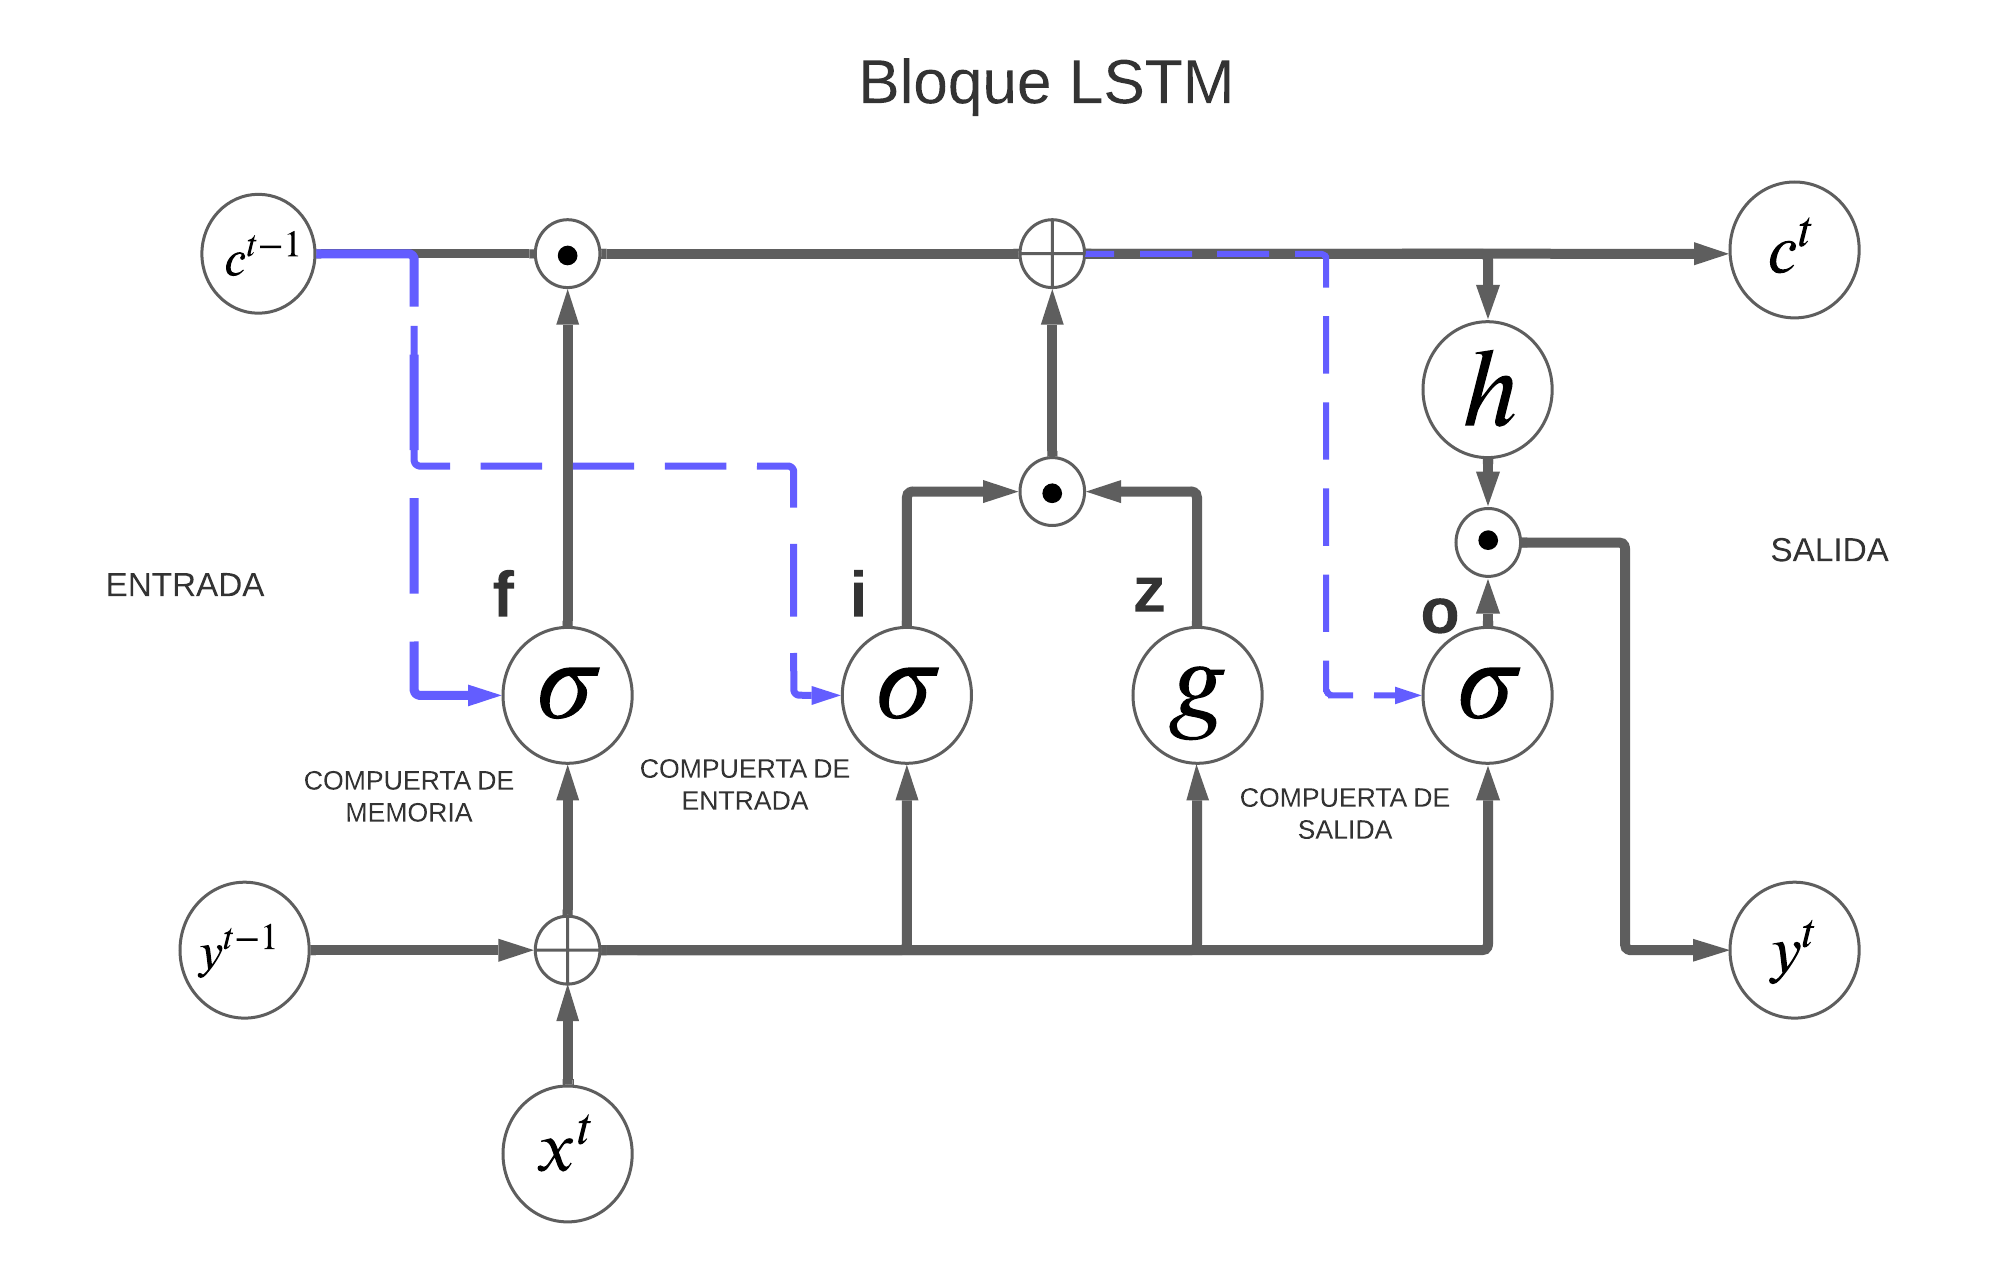
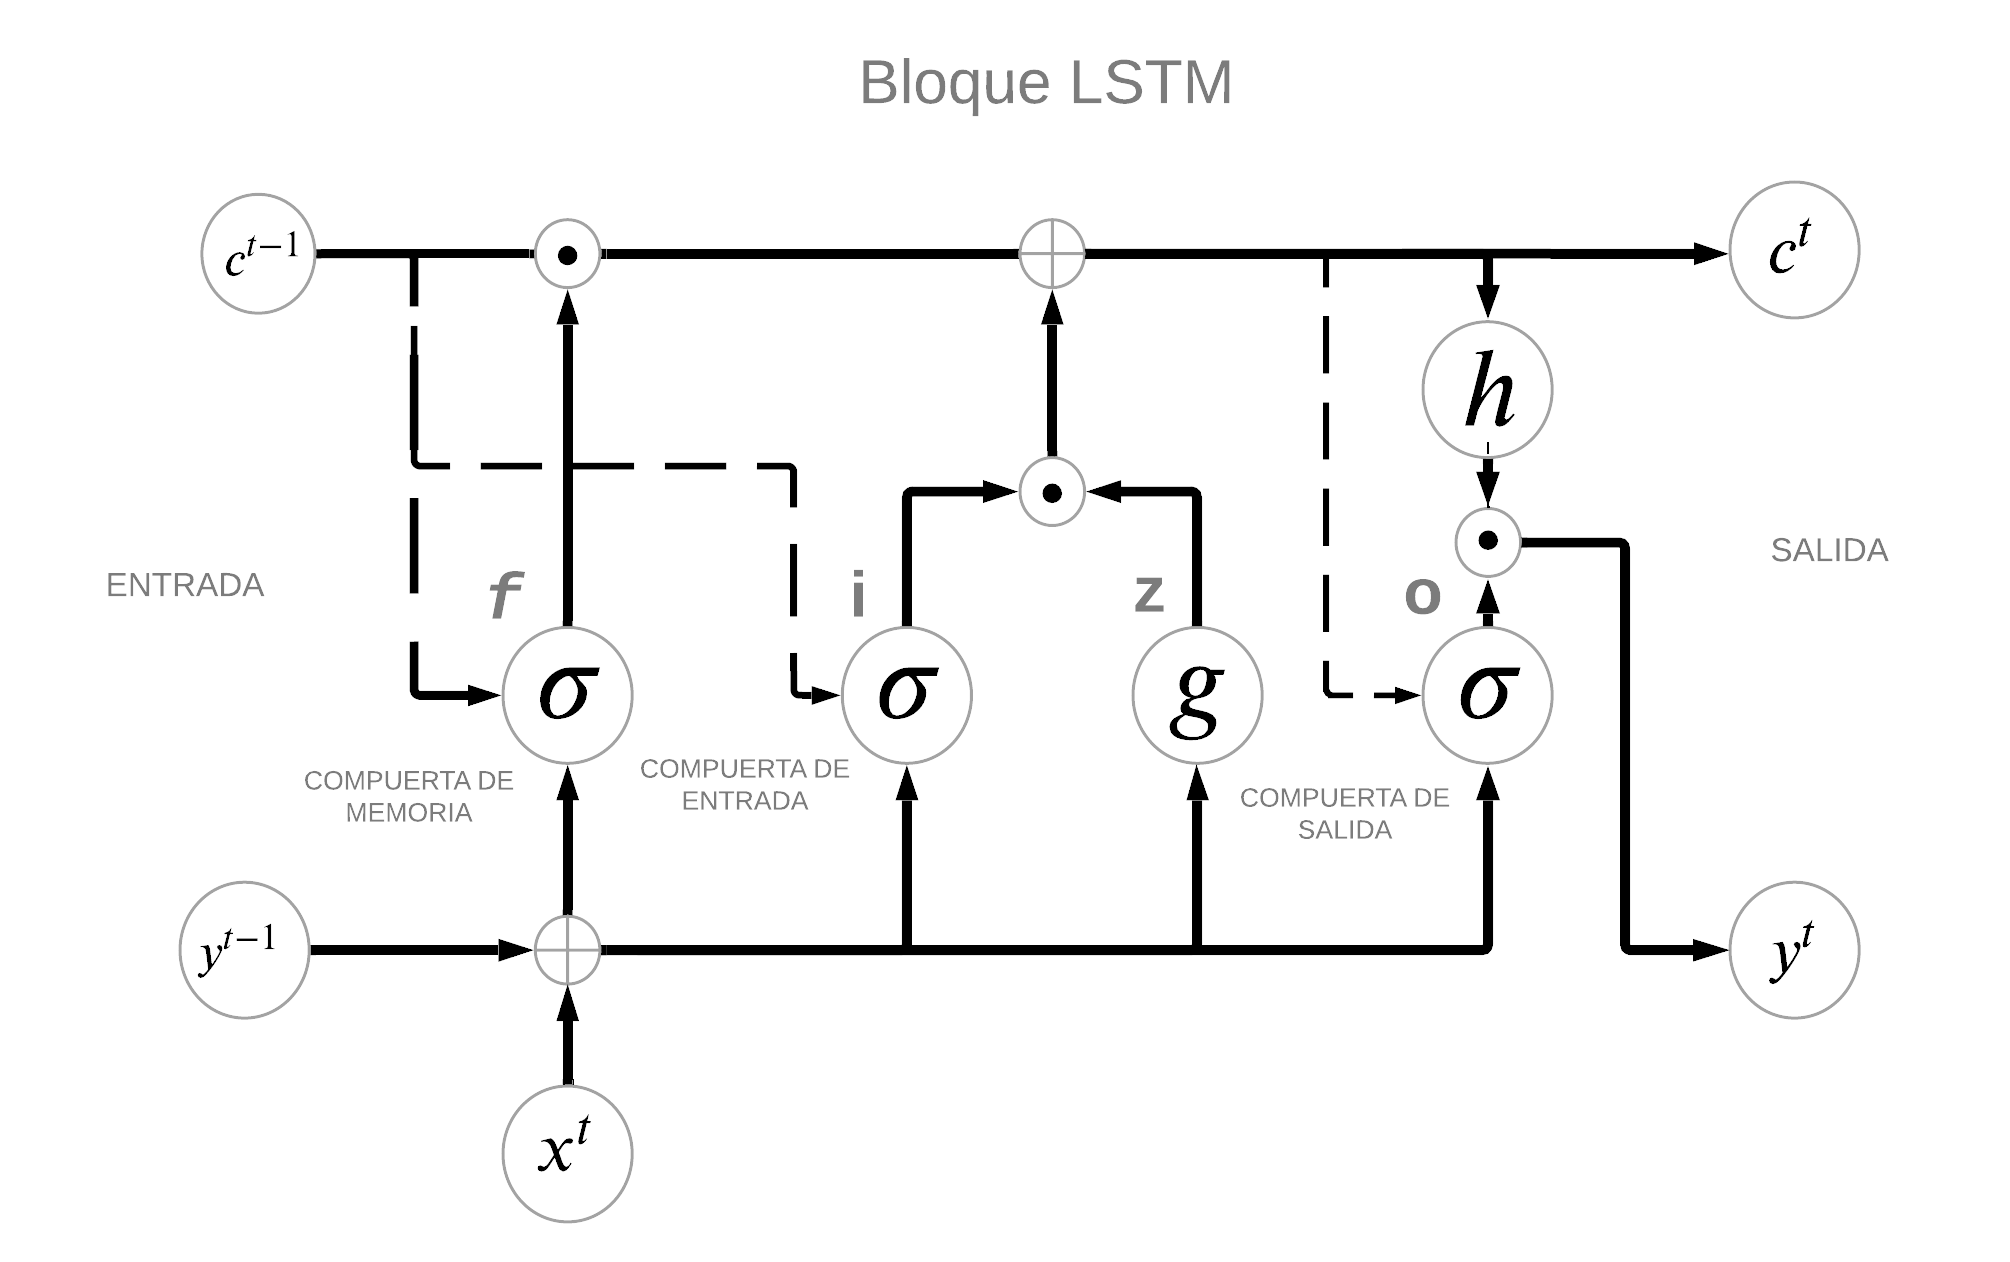
primeras correciones hasta 3.1

diff --git a/chapters/02-sistema/index.tex b/chapters/02-sistema/index.tex
@@ -7,19 +7,19 @@ En este capítulo se mostrará el desarrollo general del sistema, comenzando por
 El requisito fundamental de este trabajo fue poder controlar el sistema de entrada y salida de vehículos de al menos un recinto. Por lo tanto primero se explicará el caso particular de cómo funciona el sistema para el caso de un solo lugar. Adicionalmente existen otros requisitos preestablecidos, como:
 
 \begin{itemize}
-    \item Controlar el tiempo del vehículo dentro del establecimiento.
+    \item Medir el tiempo del vehículo dentro del establecimiento.
     \item Que la entrada y salida sea automática basada en la patente.
 \end{itemize}
 
 \begin{figure}
     \centering
     \includegraphics[width=.8\textwidth]{imgs/sistema-base.png}
-    \caption{Versión inicial del sistema}
+    \caption{Versión inicial del sistema.}
     \label{fig:sistema-base}
 \end{figure}
 
-De estos requisitos se desprende la forma más general del sistema, la cual cuenta con un subsistema que detecta los caracteres del vehículo, permite el acceso o el egreso del establecimiento al vehículo y, basado en la hora de entrada y salida, calcule el tiempo que estuvo el vehículo como se muestra en la Fig. \ref{fig:sistema-base}.
-Existe un gran inconveniente a la hora de obtener el texto de la patente de una imagen y es el tiempo de procesamiento.Es por ello que se utilizará un sensor de distancia para garantizar que existe un objeto a una determinada distancia.
+De estos requisitos se desprende la forma más general del sistema, que detecta los caracteres del vehículo, permite el acceso o el egreso del establecimiento al vehículo y, basado en la hora de entrada y salida, calcule el tiempo que estuvo el vehículo como se muestra en la Fig. \ref{fig:sistema-base}.
+Existe un gran inconveniente a la hora de obtener el texto de la patente de una imagen y es el tiempo de procesamiento. Es por ello que se utilizará un sensor de distancia para garantizar que existe un objeto.
 La versión correspondiente del sistema se puede observar en la Fig. \ref{fig:sistema-completa}.
 
 \begin{figure}
@@ -32,7 +32,7 @@ La versión correspondiente del sistema se puede observar en la Fig. \ref{fig:si
 Debido a que los parques de estacionamiento, como los de los supermercados, tienen entradas y salidas diferenciadas, el sistema deberá tener un comportamiento diferente según donde se encuentre.
 Es por ello que se implementarán dos algoritmos, uno para manejar las entradas y otro para manejar las salidas.
 
-\section{Los algoritmos de entrada y salida}
+\section{Algoritmos de entrada y salida}
 
 Una vez establecido como se verá el sistema, se debe definir su comportamiento cuando un vehículo entra o cuando sale.
 
@@ -44,7 +44,7 @@ En caso de encontrar una patente, se almacena la fecha, junto con la patente y l
 \begin{figure}
     \centering
     \includegraphics[width=.5\textwidth]{imgs/flujo-entrada.png}
-    \caption{Diagrama de flujo para la entrada}
+    \caption{Diagrama de flujo para la entrada.}
     \label{fig:flujo-entrada}
 \end{figure}
 
@@ -55,7 +55,7 @@ El algoritmo de salida es idéntico en la toma de muestra, pero antes de guardar
 \begin{figure}
     \centering
     \includegraphics[width=.5\textwidth]{imgs/flujo-salida.png}
-    \caption{Diagrama de flujo para la salida}
+    \caption{Diagrama de flujo para la salida.}
     \label{fig:flujo-salida}
 \end{figure}
 

diff --git a/chapters/03-ocr/index.tex b/chapters/03-ocr/index.tex
@@ -13,7 +13,7 @@ El OCR, por sus siglas en inglés Optical Character
 Recognition o en español Reconocimiento Óptico de Caracteres, es una técnica que permite
 obtener texto en formato ASCII a partir de una imagen.
 Para lograrlo se debe inspeccionar la imagen buscando formas características de los símbolos como los del abecedario.
-La tecnología más utilizada para realizar el OCR son las Redes Neuronales donde se destacan dos tipos: las redes LSTM, por sus siglas en inglés Long-Short Term Memory, que son una variedad de Redes
+La tecnología más utilizada en esta ultima decada para realizar el OCR son las Redes Neuronales donde se destacan dos tipos: las redes LSTM, por sus siglas en inglés Long-Short Term Memory, que son una variedad de Redes
 neuronales recurrentes, y las CNN por sus siglas en inglés Convolutional Neural Network, o en español Red Neuronal Convolucional.
 
 Si bien el fin último de ambos tipos de red es obtener los caracteres a partir de la imagen, la forma en
@@ -37,7 +37,7 @@ Las señales principales son:
 Cada bloque LSTM se puede dividir en tres secciones diferentes que son:
 
 \begin{itemize}
-    \item Compuerta de memoria: representado por la función $f$, en ella se decide a que información se le debe prestar atención y cuál debe ser ignorada, en otras palabras, es la encargada de ponderar la importancia de la entrada actual respecto a la información pasada.
+    \item Compuerta de memoria: representado por la funcion $\sigma$, en ella se decide a que información se le debe prestar atención y cuál debe ser ignorada, en otras palabras, es la encargada de ponderar la importancia de la entrada actual respecto a la información pasada.
     \item Compuerta de entrada: esta se obtiene de la multiplicación de las señales $z$ e $i$, es la encargada de actualizar el estado del bloque con la información ponderada de la compuerta de memoria por el vector $z$, cuyos valores se encuentran entre $-1$ y $1$.
     \item Compuerta de salida: aquí se determina el valor actual del estado oculto y queda contenida la información de los estados previos, este valor es utilizado para realizar la predicción de estados futuros.
 \end{itemize}
@@ -55,7 +55,7 @@ Actualmente, este tipo de redes son las más utilizadas para realizar reconocimi
 
 La otra alternativa que se puede utilizar son las CNN, que mediante filtros bidimensionales y una serie de capas totalmente conectadas se predice el texto más probable.
 Al no requerir almacenar información ni trabajar de forma recursiva, la implementación
-de este tipo de redes se puede hacer en equipos con un hardware de menor potencia, menor tamaño y, por consiguiente, menor costo. La mayor desventaja es que el tamaño del texto debe estar previamente definido.
+de este tipo de redes se puede hacer en equipos con un hardware de menor potencia, menor tamaño y, por consiguiente, menor costo. La mayor desventaja es que la cantidad de caracteres debe estar previamente definido.
 
 Las patentes argentinas han sufrido tres modificaciones a lo largo de los años, que se pueden ver en la Fig. \ref{fig:patentes-arg}. En la actualidad, se pueden encontrar vehículos con las patentes lanzadas en 1994 y 2015. Si se considera un séptimo carácter en las de 1994 como un guion bajo (\_), es posible utilizar una red neuronal del tipo CNN frente a una LSTM.
 \begin{figure}[h]
